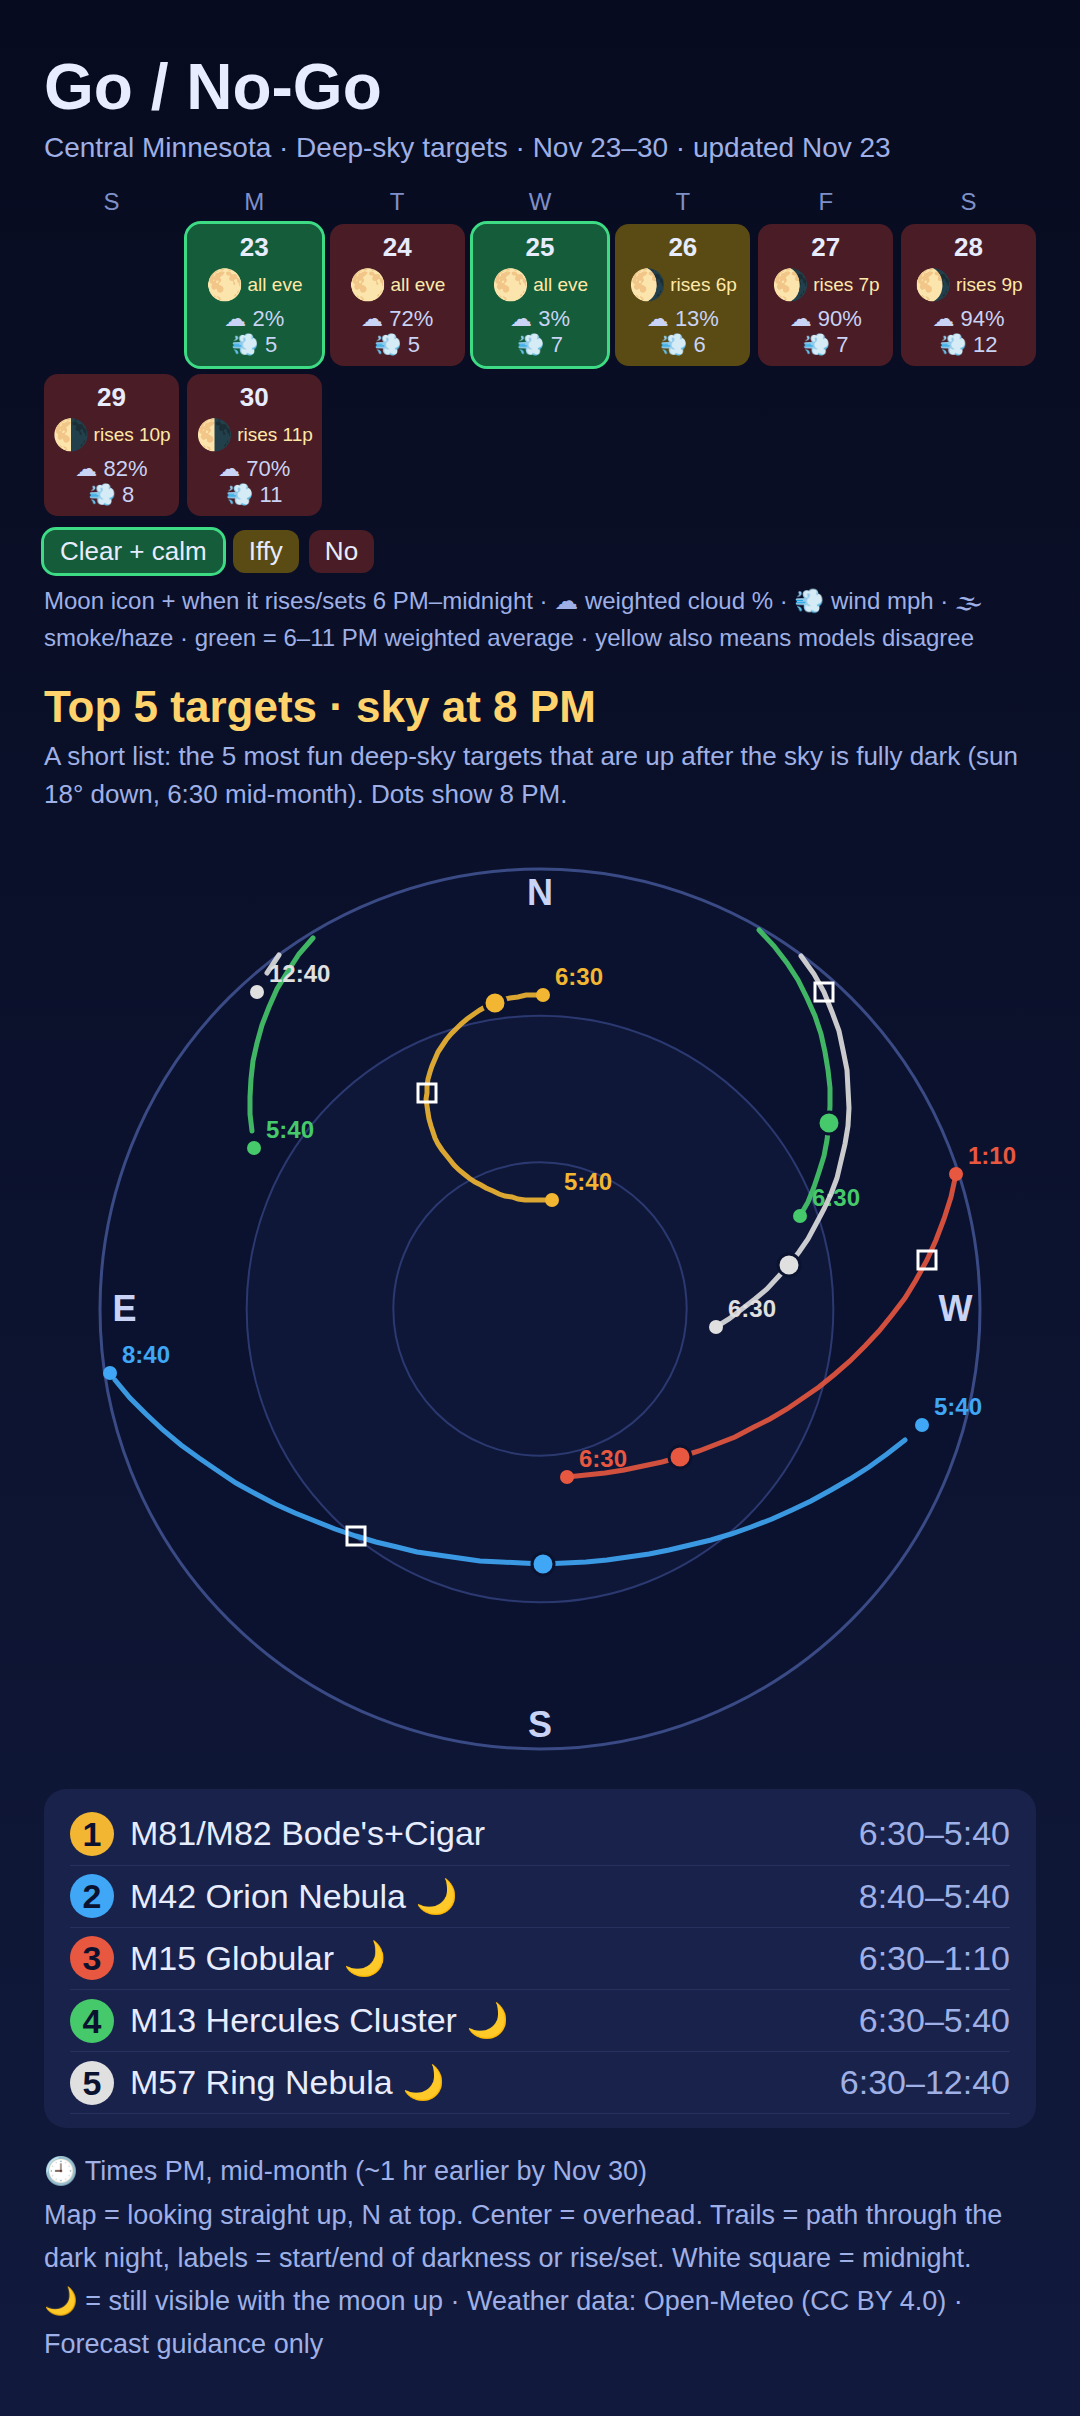
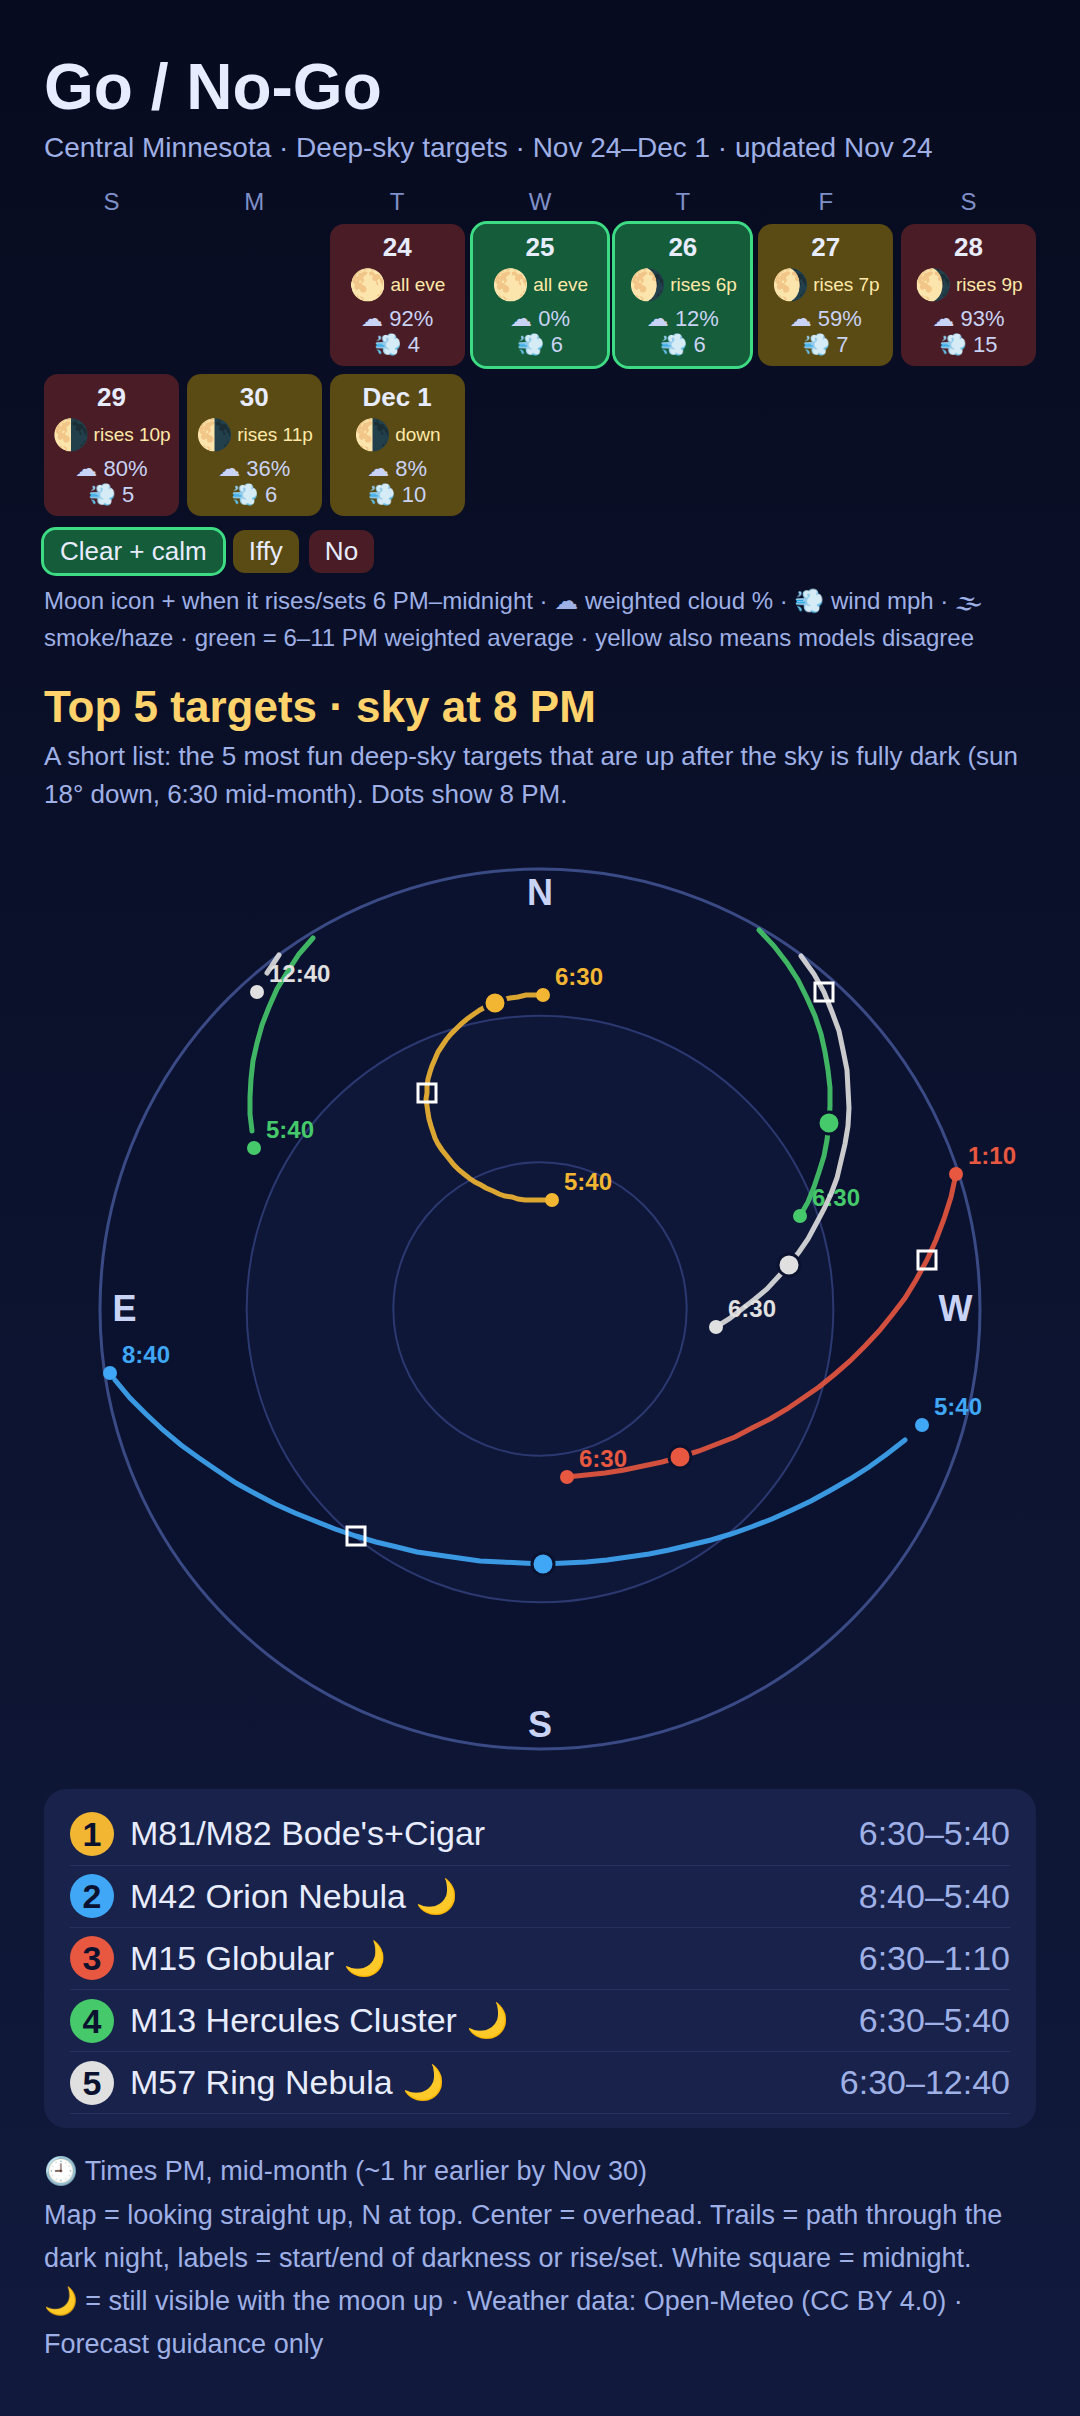
Update stargazing forecast (Nov 24)

diff --git a/_includes/forecast_status.html b/_includes/forecast_status.html
@@ -1,2 +1,2 @@
-<p class="notice--info"><strong>Forecast updated Nov 23:</strong> Next good night: Mon Nov 23 (models disagree): M15 Globular, 6:30 pm-9:40 pm (clear 5.5h, longest 6:30 pm-12:00 am, low 13F)</p>
+<p class="notice--info"><strong>Forecast updated Nov 24:</strong> Next good night: Wed Nov 25: M15 Globular, 6:30 pm-9:30 pm (clear 5.5h, longest 6:30 pm-12:00 am, low 24F)</p>
 <p class="small">Weather data: <a href="https://open-meteo.com/">Open-Meteo</a> (CC BY 4.0). Forecast guidance only — check the sky before heading out.</p>

diff --git a/_posts/1900-01-01-about.md b/_posts/1900-01-01-about.md
@@ -1,6 +1,6 @@
 ---
 title: Coming up
-date: 2026-11-23
+date: 2026-11-24
 header:
   teaser: /images/month.png
 ---
